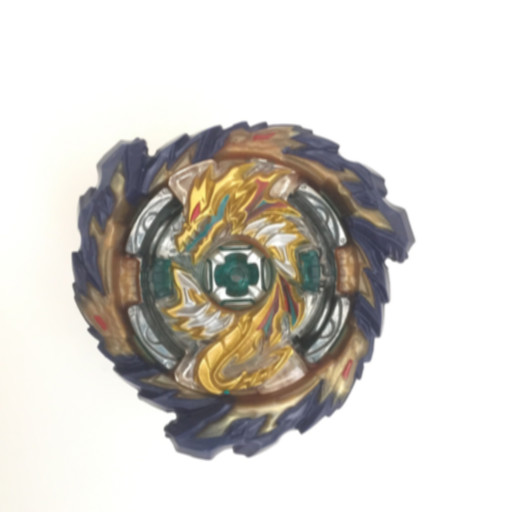
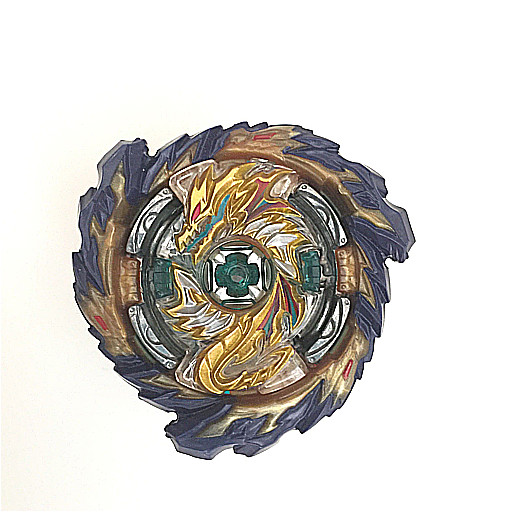
fixed RandomAdjustSharpness

Changed region(s): [[0.125, 0.2188, 0.8125, 0.9062]]

diff --git a/vision/aug/function.go b/vision/aug/function.go
@@ -1274,8 +1274,8 @@ func blurredDegenerateImage(img *ts.Tensor) *ts.Tensor {
 	// kernel = torch.ones((3, 3), dtype=dtype, device=img.device)
 	kernel := ts.MustOnes([]int64{3, 3}, dtype, device)
 
-	// kernel[1, 1] = 5.0 - Center kernel value
-	kernelView := kernel.MustNarrow(1, 1, 2, false)
+	// kernel[1, 1] = 5.0
+	kernelView := kernel.MustNarrow(1, 1, 1, false).MustNarrow(0, 1, 1, true)
 	centerVal := kernelView.MustOnesLike(false).MustMul1(ts.FloatScalar(5.0), true)
 	kernelView.Copy_(centerVal) // center kernel value
 	centerVal.MustDrop()
@@ -1299,13 +1299,16 @@ func blurredDegenerateImage(img *ts.Tensor) *ts.Tensor {
 	dilation := []int64{1, 1}
 	resTmpDim := resTmp.MustSize()
 	group := resTmpDim[len(resTmpDim)-3]
+	// resTmp1 shape: [1, 3, h, w]
 	resTmp1 := ts.MustConv2d(resTmp, kernelExp, ts.NewTensor(), stride, padding, dilation, group)
 
 	// result_tmp = _cast_squeeze_out(result_tmp, need_cast, need_squeeze, out_dtype)
+	// resTmp2 shape: [3, h, w]
 	resTmp2 := castSqueezeOut(resTmp1, needCast, needSqueeze, outDtype)
 
 	// result = img.clone()
-	out := img.MustShallowClone()
+	// NOTE. out := img.MustShallowClone() doesn't work!
+	out := img.MustZerosLike(false)
 
 	// result[..., 1:-1, 1:-1] = result_tmp
 	hDim := int64(len(dim) - 2) // second last dim

diff --git a/vision/aug/sharpness.go b/vision/aug/sharpness.go
@@ -53,23 +53,18 @@ func newRandomAdjustSharpness(opts ...sharpnessOption) *RandomAdjustSharpness {
 	}
 }
 
+// NOTE. input img dtype shoule be `uint8` (Byte)
 func (ras *RandomAdjustSharpness) Forward(x *ts.Tensor) *ts.Tensor {
-	fx := Byte2FloatImage(x)
-
 	r := randPvalue()
 	var out *ts.Tensor
 	switch {
 	case r < ras.pvalue:
-		out = adjustSharpness(fx, ras.sharpnessFactor)
+		out = adjustSharpness(x, ras.sharpnessFactor)
 	default:
-		out = fx.MustShallowClone()
+		out = x.MustShallowClone()
 	}
 
-	bx := Float2ByteImage(out)
-	fx.MustDrop()
-	out.MustDrop()
-
-	return bx
+	return out
 }
 
 func WithRandomAdjustSharpness(opts ...sharpnessOption) Option {
